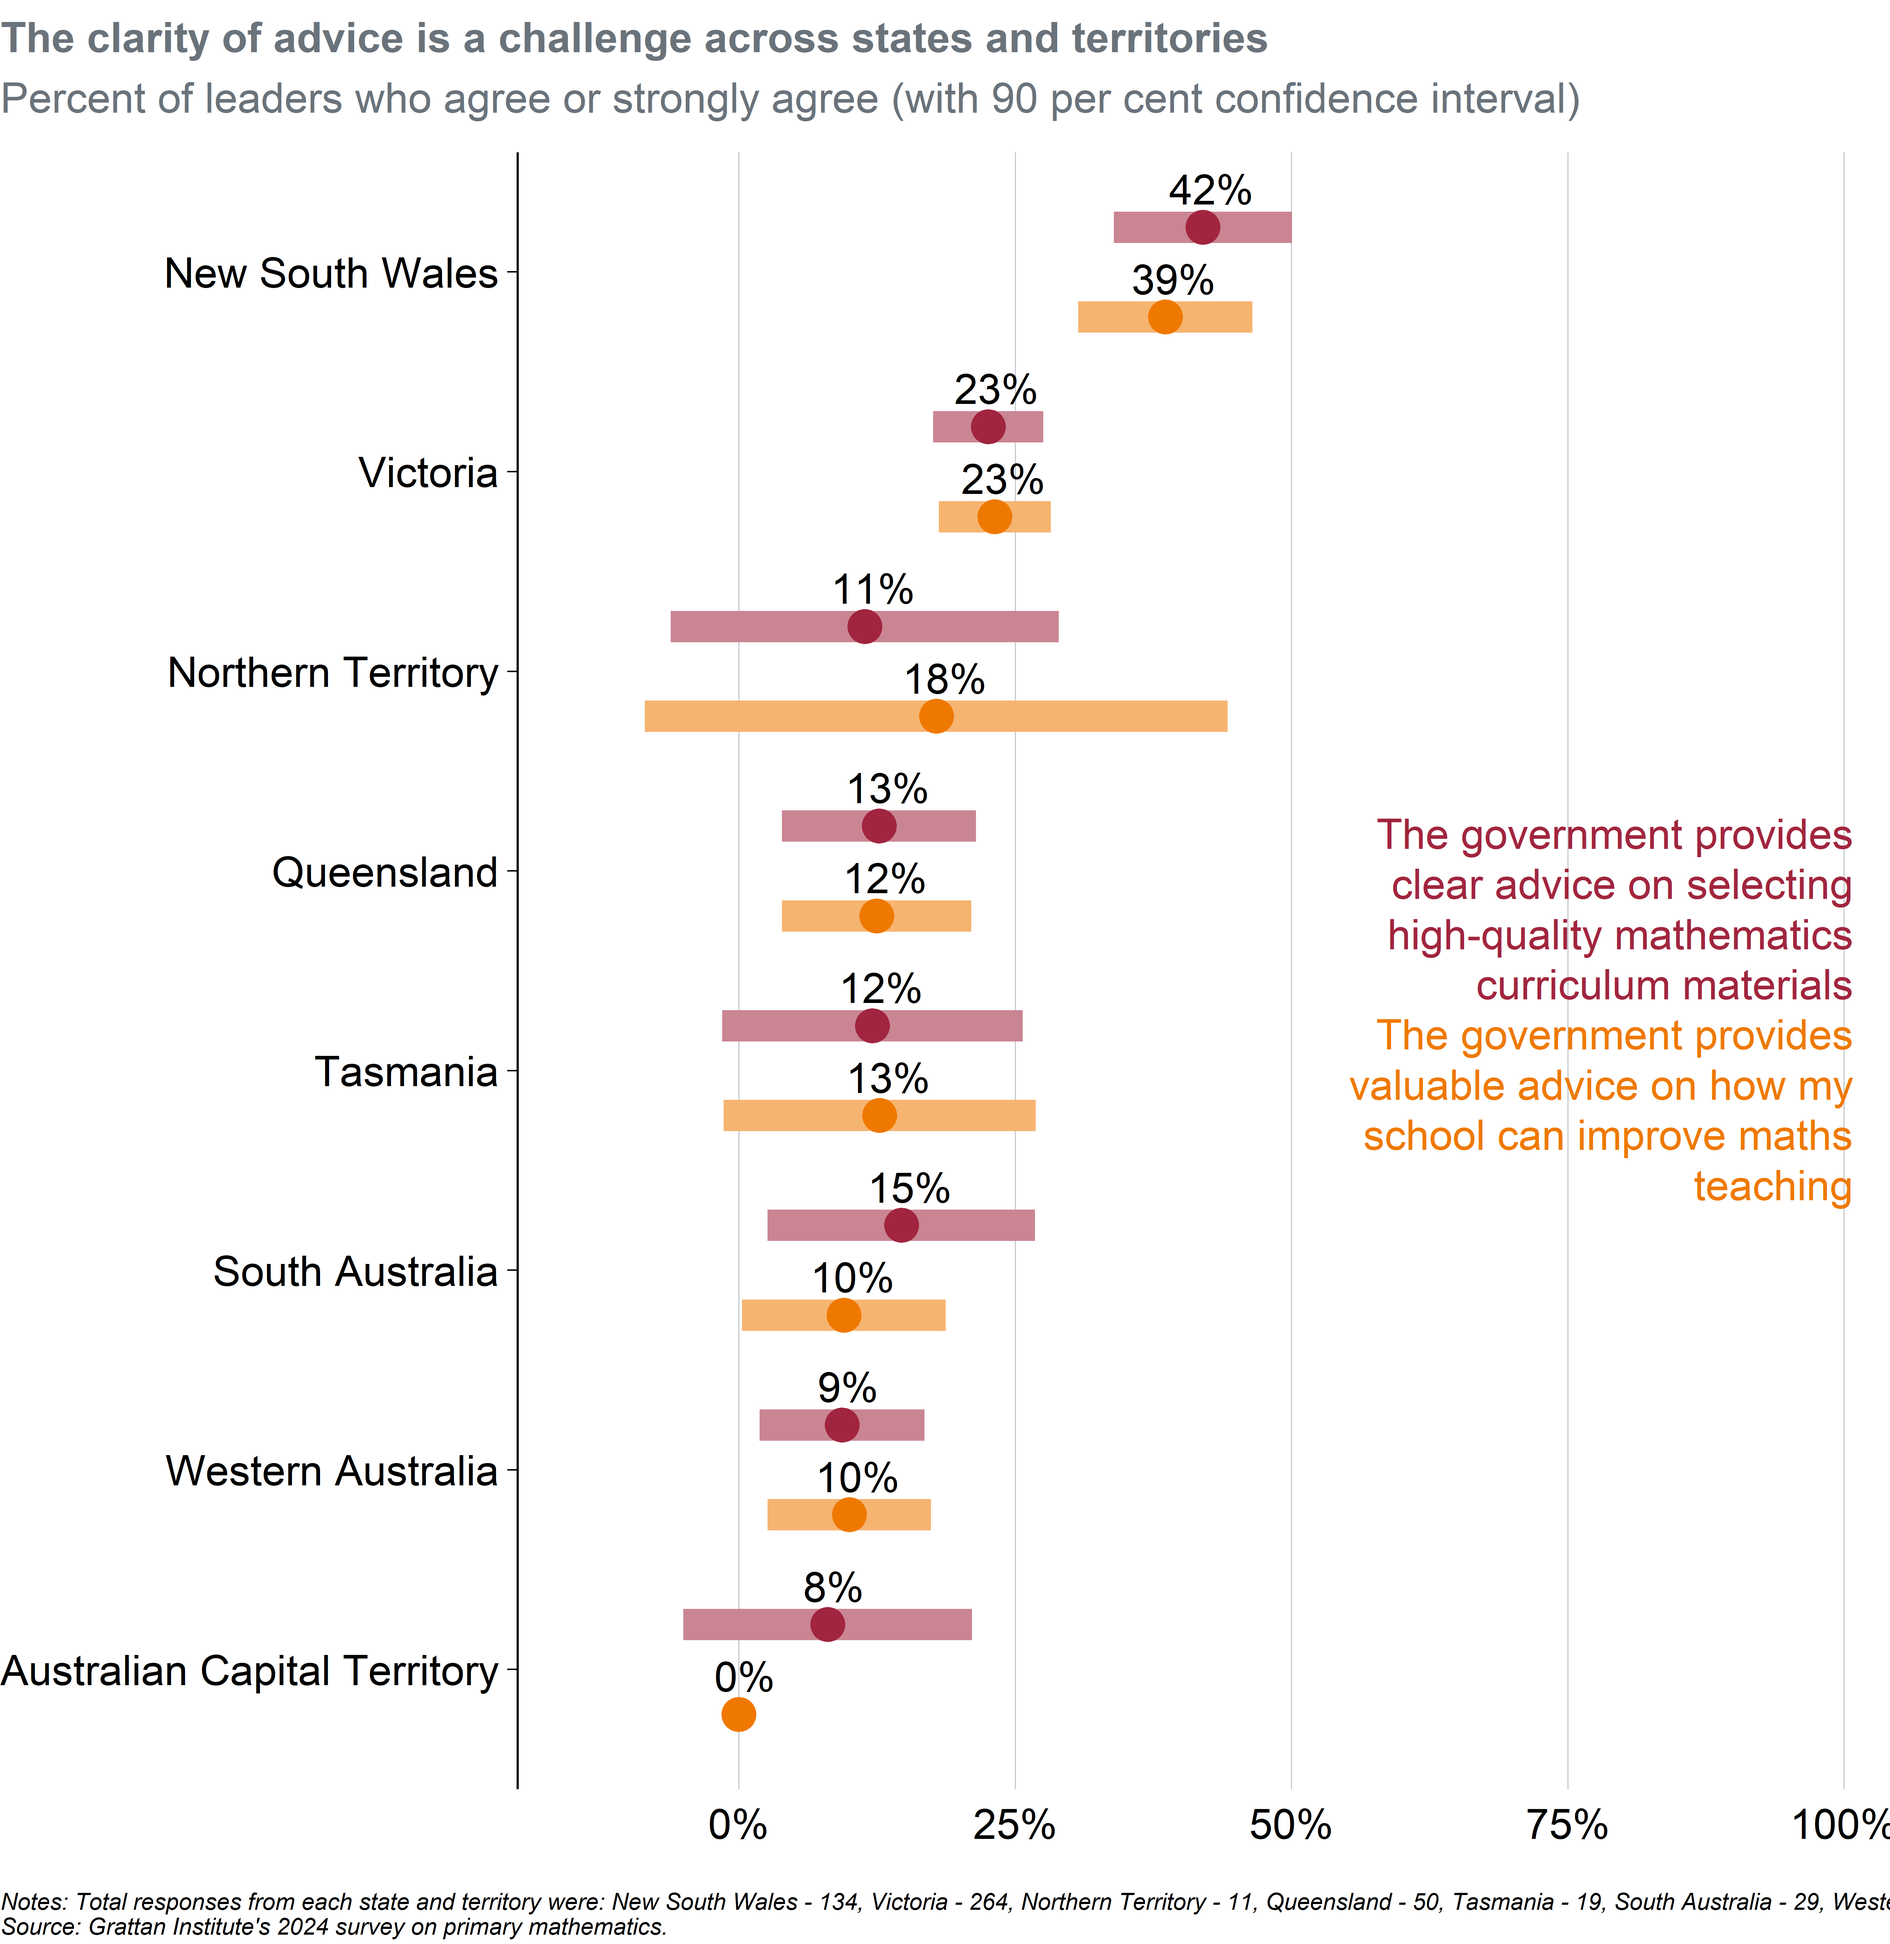
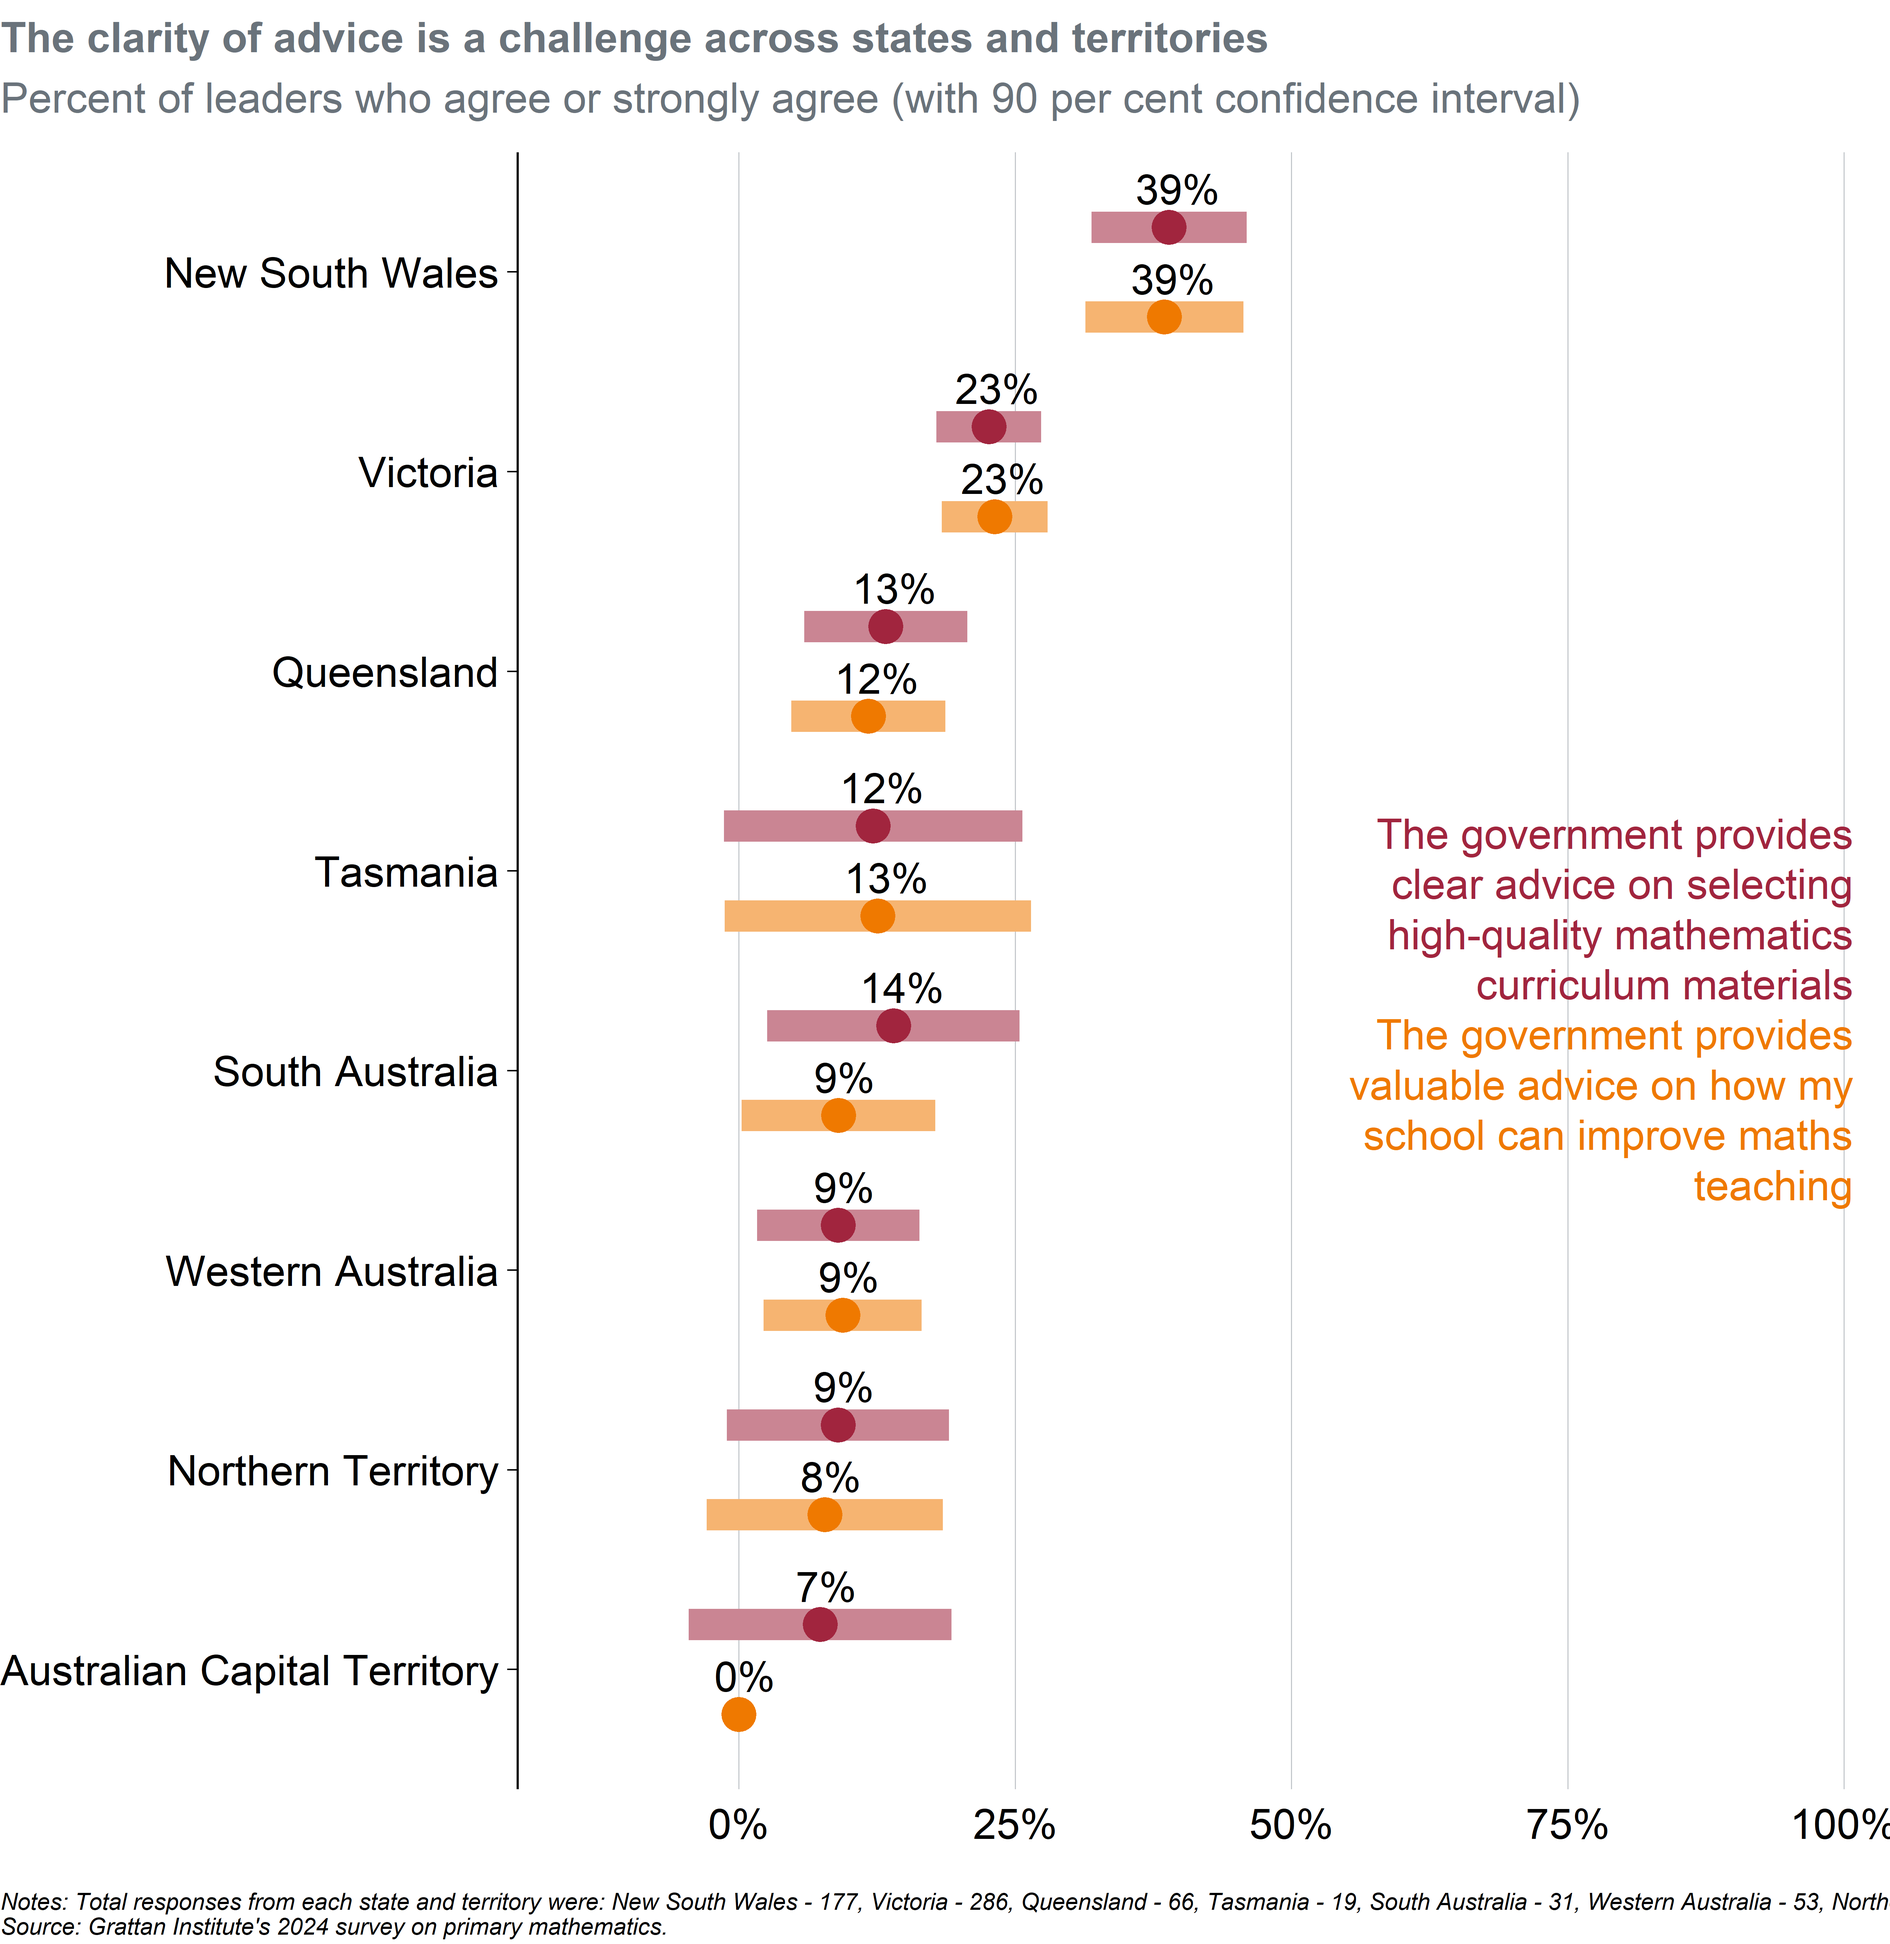
Re-ran survey count QMD

diff --git a/docs/teacher_attitudes.html b/docs/teacher_attitudes.html
@@ -184,27 +184,27 @@ ul.task-list li input[type="checkbox"] {
 <tbody>
 <tr class="odd">
 <td style="text-align: left;">No maths</td>
-<td style="text-align: right;">161</td>
+<td style="text-align: right;">184</td>
 <td style="text-align: right;">12%</td>
 </tr>
 <tr class="even">
 <td style="text-align: left;">Foundational maths</td>
-<td style="text-align: right;">111</td>
+<td style="text-align: right;">127</td>
 <td style="text-align: right;">8%</td>
 </tr>
 <tr class="odd">
 <td style="text-align: left;">Lower intermediate maths</td>
-<td style="text-align: right;">507</td>
+<td style="text-align: right;">598</td>
 <td style="text-align: right;">38%</td>
 </tr>
 <tr class="even">
 <td style="text-align: left;">Upper intermediate maths</td>
-<td style="text-align: right;">377</td>
-<td style="text-align: right;">28%</td>
+<td style="text-align: right;">454</td>
+<td style="text-align: right;">29%</td>
 </tr>
 <tr class="odd">
 <td style="text-align: left;">Advanced maths</td>
-<td style="text-align: right;">179</td>
+<td style="text-align: right;">211</td>
 <td style="text-align: right;">13%</td>
 </tr>
 </tbody>
@@ -227,12 +227,12 @@ ul.task-list li input[type="checkbox"] {
 <tbody>
 <tr class="odd">
 <td style="text-align: left;">No</td>
-<td style="text-align: right;">1235</td>
+<td style="text-align: right;">1462</td>
 <td style="text-align: right;">93%</td>
 </tr>
 <tr class="even">
 <td style="text-align: left;">Yes</td>
-<td style="text-align: right;">100</td>
+<td style="text-align: right;">112</td>
 <td style="text-align: right;">7%</td>
 </tr>
 </tbody>
@@ -678,7 +678,7 @@ window.document.addEventListener("DOMContentLoaded", function (event) {
 });
 </script>
 </div> <!-- /content -->
-<script>var lightboxQuarto = GLightbox({"selector":".lightbox","closeEffect":"zoom","loop":false,"openEffect":"zoom","descPosition":"bottom"});
+<script>var lightboxQuarto = GLightbox({"closeEffect":"zoom","openEffect":"zoom","selector":".lightbox","loop":false,"descPosition":"bottom"});
 window.onload = () => {
   lightboxQuarto.on('slide_before_load', (data) => {
     const { slideIndex, slideNode, slideConfig, player, trigger } = data;

diff --git a/docs/school_practices.html b/docs/school_practices.html
@@ -190,27 +190,27 @@ ul.task-list li input[type="checkbox"] {
 <tbody>
 <tr class="odd">
 <td style="text-align: left;">Common approach, but no scheduled maths block</td>
-<td style="text-align: right;">47.3%</td>
-<td style="text-align: right;">44.2%</td>
-<td style="text-align: right;">50.4%</td>
+<td style="text-align: right;">47.2%</td>
+<td style="text-align: right;">44.4%</td>
+<td style="text-align: right;">50.0%</td>
 </tr>
 <tr class="even">
 <td style="text-align: left;">Scheduled maths block</td>
-<td style="text-align: right;">42.2%</td>
-<td style="text-align: right;">39.3%</td>
-<td style="text-align: right;">45.1%</td>
+<td style="text-align: right;">42.3%</td>
+<td style="text-align: right;">39.7%</td>
+<td style="text-align: right;">44.8%</td>
 </tr>
 <tr class="odd">
 <td style="text-align: left;">Teacher discretion</td>
-<td style="text-align: right;">9.8%</td>
-<td style="text-align: right;">7.9%</td>
-<td style="text-align: right;">11.7%</td>
+<td style="text-align: right;">9.5%</td>
+<td style="text-align: right;">7.8%</td>
+<td style="text-align: right;">11.2%</td>
 </tr>
 <tr class="even">
 <td style="text-align: left;">Other</td>
-<td style="text-align: right;">0.7%</td>
-<td style="text-align: right;">0.2%</td>
-<td style="text-align: right;">1.2%</td>
+<td style="text-align: right;">1.1%</td>
+<td style="text-align: right;">0.5%</td>
+<td style="text-align: right;">1.6%</td>
 </tr>
 </tbody>
 </table>
@@ -681,7 +681,7 @@ window.document.addEventListener("DOMContentLoaded", function (event) {
 });
 </script>
 </div> <!-- /content -->
-<script>var lightboxQuarto = GLightbox({"descPosition":"bottom","selector":".lightbox","loop":false,"openEffect":"zoom","closeEffect":"zoom"});
+<script>var lightboxQuarto = GLightbox({"selector":".lightbox","loop":false,"descPosition":"bottom","closeEffect":"zoom","openEffect":"zoom"});
 window.onload = () => {
   lightboxQuarto.on('slide_before_load', (data) => {
     const { slideIndex, slideNode, slideConfig, player, trigger } = data;

diff --git a/docs/leader_views.html b/docs/leader_views.html
@@ -205,22 +205,22 @@ ul.task-list li input[type="checkbox"] {
 <tbody>
 <tr class="odd">
 <td style="text-align: left;">No teachers</td>
-<td style="text-align: right;">37</td>
+<td style="text-align: right;">45</td>
 <td style="text-align: right;">6.0%</td>
 </tr>
 <tr class="even">
 <td style="text-align: left;">Some teachers</td>
-<td style="text-align: right;">248</td>
+<td style="text-align: right;">291</td>
 <td style="text-align: right;">42.0%</td>
 </tr>
 <tr class="odd">
 <td style="text-align: left;">About half of teachers</td>
-<td style="text-align: right;">173</td>
+<td style="text-align: right;">202</td>
 <td style="text-align: right;">29.0%</td>
 </tr>
 <tr class="even">
 <td style="text-align: left;">Most teachers</td>
-<td style="text-align: right;">128</td>
+<td style="text-align: right;">154</td>
 <td style="text-align: right;">22.0%</td>
 </tr>
 <tr class="odd">
@@ -650,7 +650,7 @@ window.document.addEventListener("DOMContentLoaded", function (event) {
 });
 </script>
 </div> <!-- /content -->
-<script>var lightboxQuarto = GLightbox({"openEffect":"zoom","selector":".lightbox","loop":false,"descPosition":"bottom","closeEffect":"zoom"});
+<script>var lightboxQuarto = GLightbox({"descPosition":"bottom","openEffect":"zoom","selector":".lightbox","closeEffect":"zoom","loop":false});
 window.onload = () => {
   lightboxQuarto.on('slide_before_load', (data) => {
     const { slideIndex, slideNode, slideConfig, player, trigger } = data;
